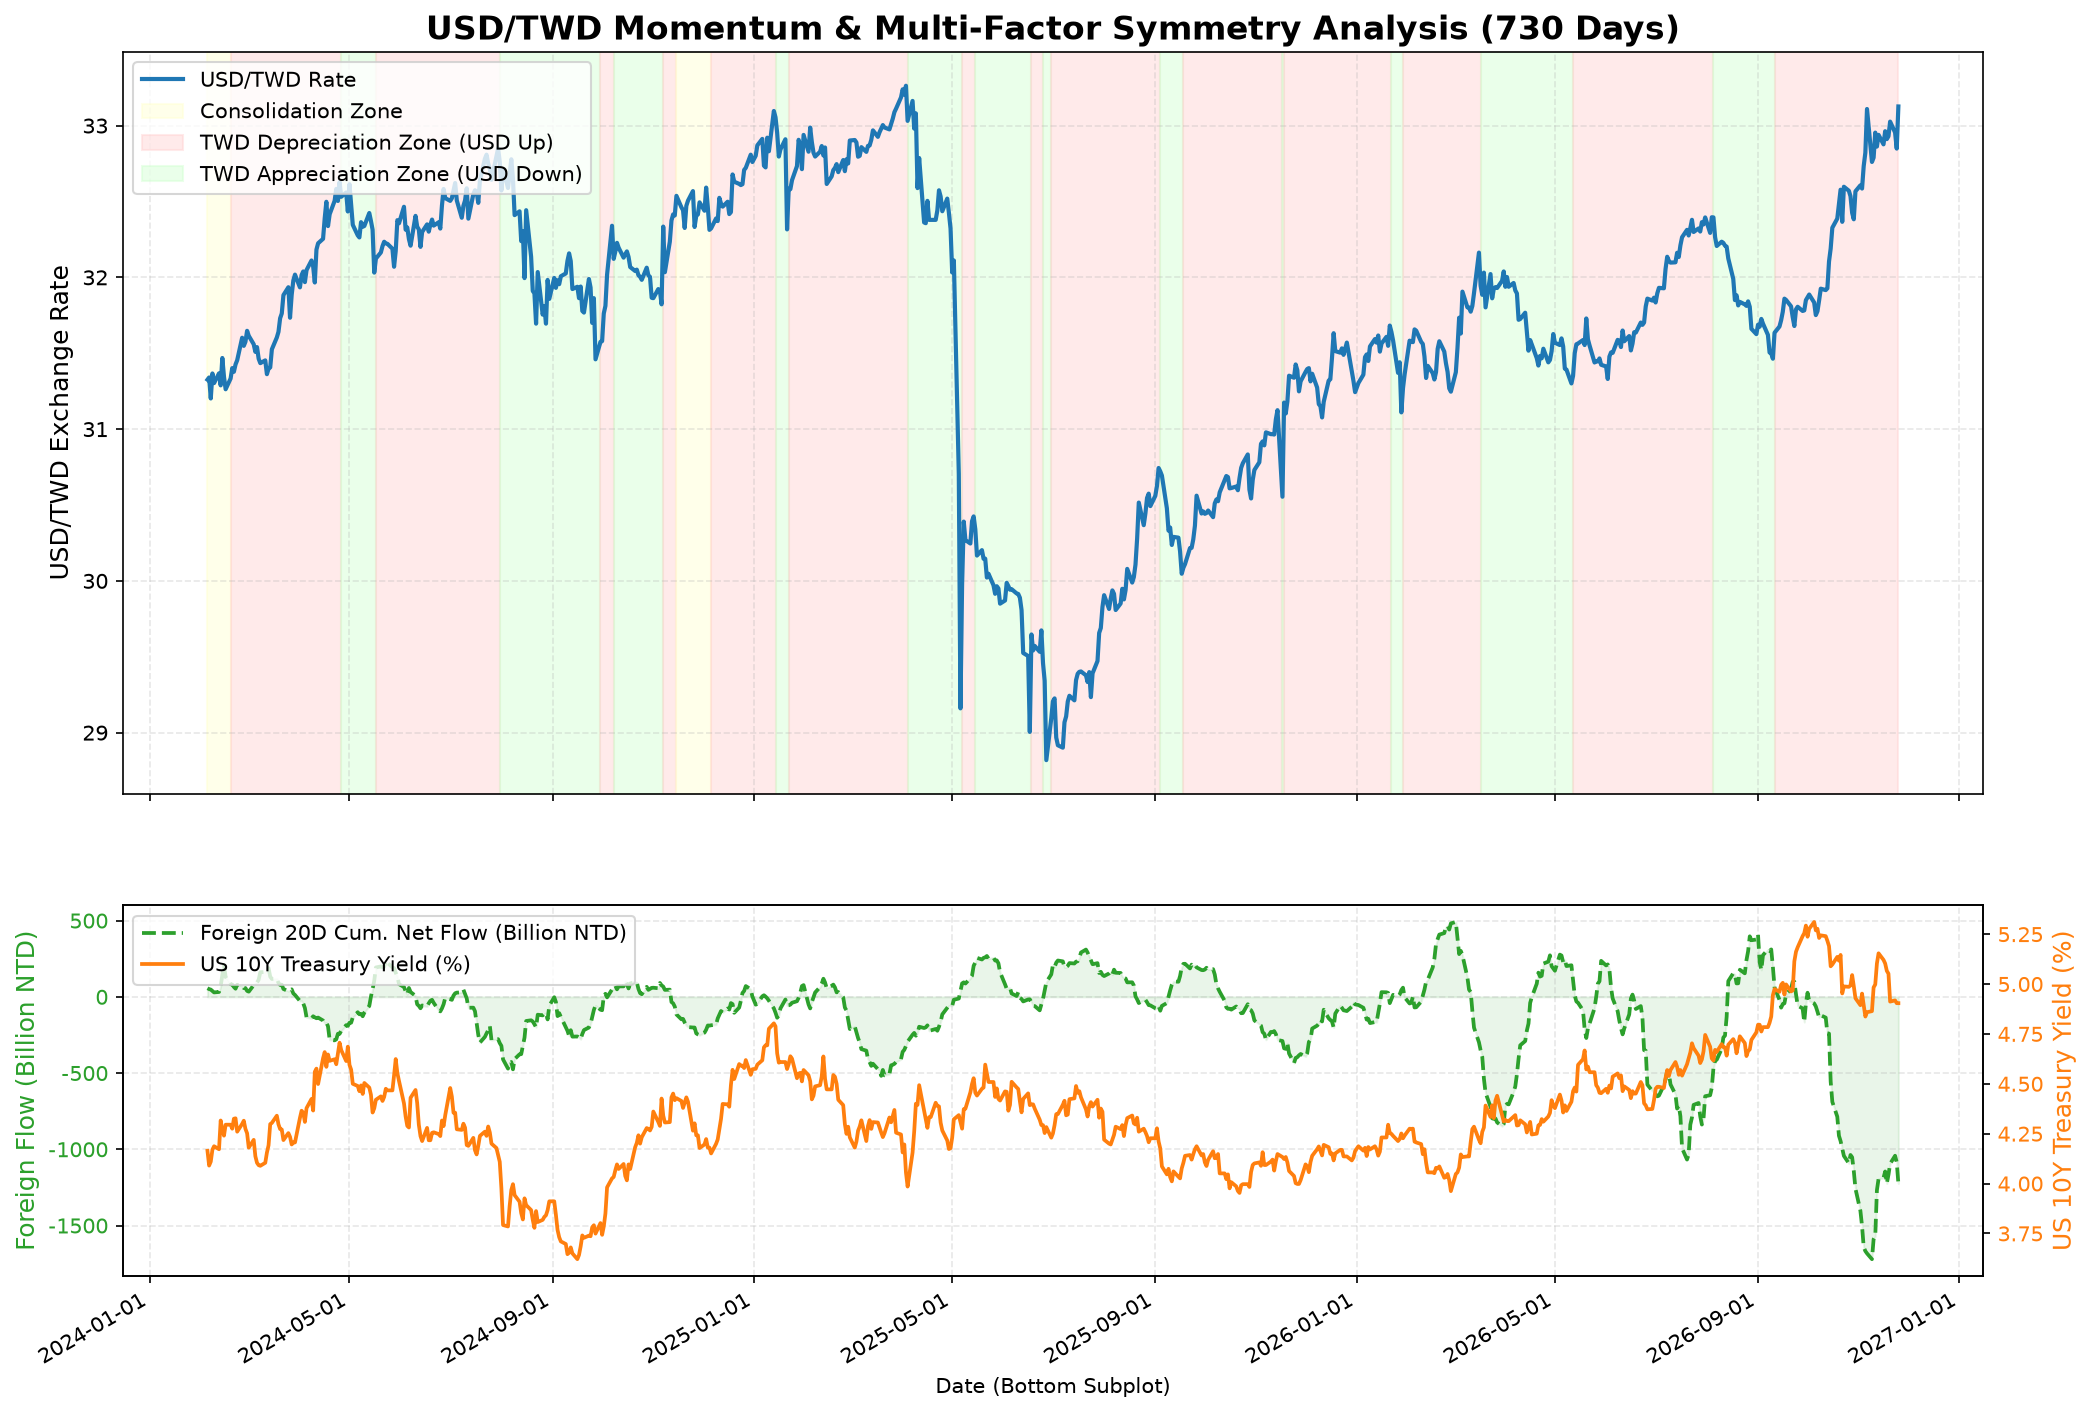
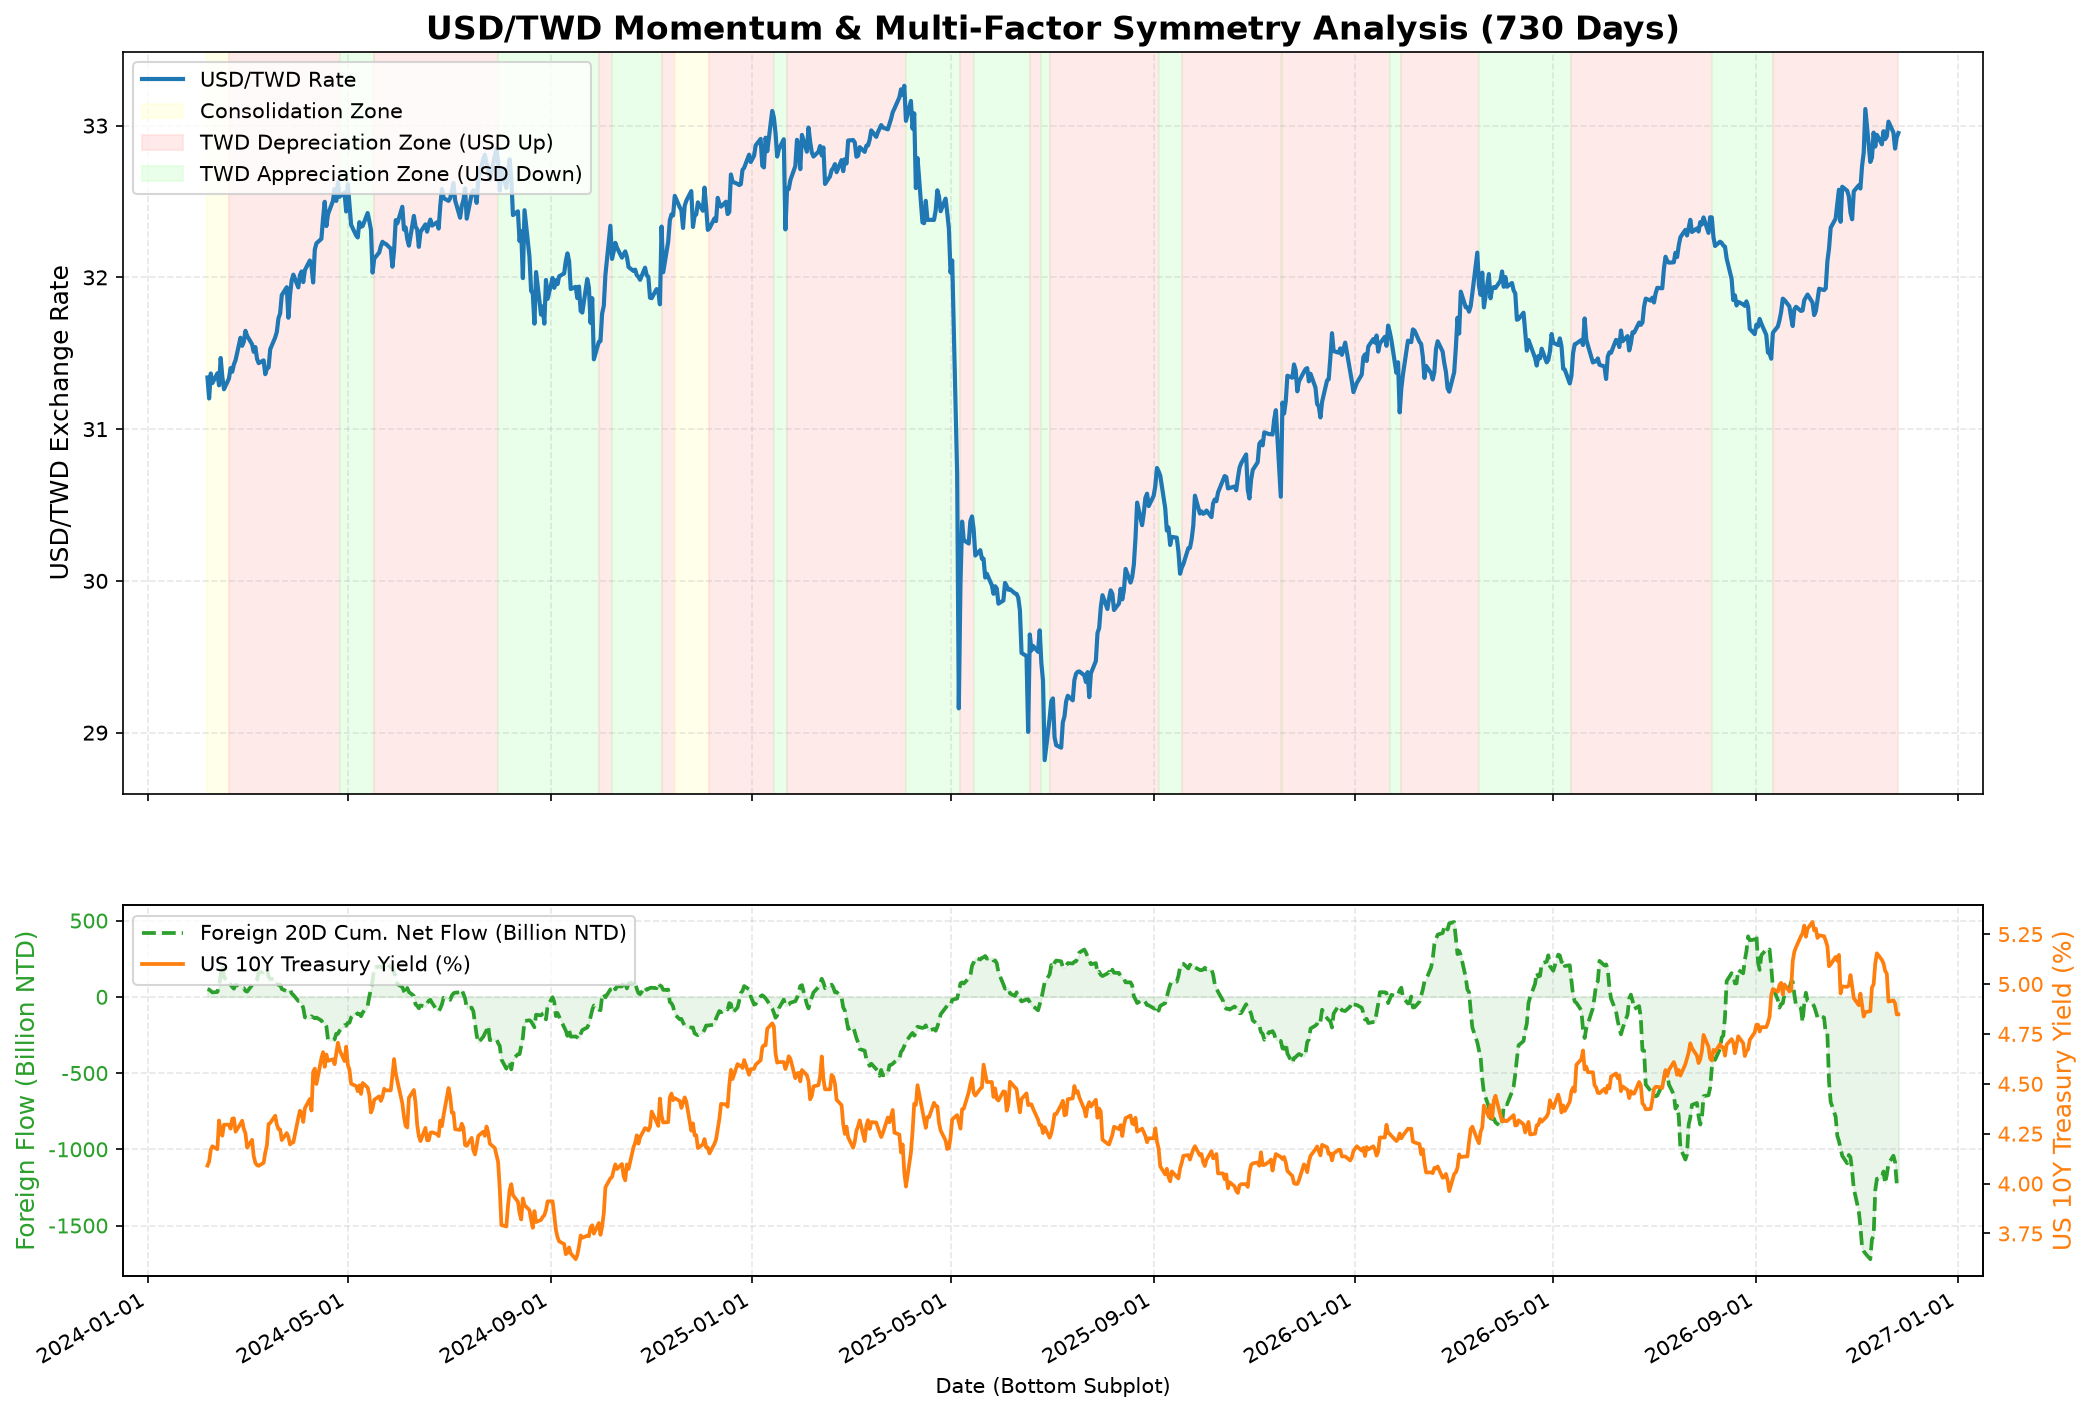
Auto-update USD/TWD momentum report (2026-11-26)

diff --git a/usdtwd.html b/usdtwd.html
@@ -57,7 +57,7 @@
                     <i class="fa-solid fa-money-bill-transfer text-amber-500"></i> USD/TWD 美元兌新台幣動能與多維度對稱分析報告
                 </h1>
                 <p class="text-sm text-gray-400 mt-1">
-                    標的：USD/TWD 匯率 ｜ 模型：雙速量價效率與波動對稱模型 ｜ 更新日期：2026-11-25
+                    標的：USD/TWD 匯率 ｜ 模型：雙速量價效率與波動對稱模型 ｜ 更新日期：2026-11-26
                 </p>
             </div>
             <div class="flex items-center gap-3">
@@ -116,17 +116,17 @@
 ════════════════════════════════════════════════════════════════════════════════
 
 【1. 跨市場與籌碼因子即時監控】
-  * 外資近 5 日累積淨買賣超: -236.82 十億元新台幣
-  * 外資近 20 日累積淨買賣超: -1224.11 十億元新台幣
-  * 美元指數 DXY: 104.03 (近5日變動: +0.13)
-  * 美元兌韓元 KRW: 1343.00 (近5日變動: +12.60)
-  * 美國 10 年期公債殖利率: 4.904% (近5日變動: -0.148%)
+  * 外資近 5 日累積淨買賣超: -261.68 十億元新台幣
+  * 外資近 20 日累積淨買賣超: -1204.47 十億元新台幣
+  * 美元指數 DXY: 103.78 (近5日變動: -0.03)
+  * 美元兌韓元 KRW: 1344.08 (近5日變動: +9.29)
+  * 美國 10 年期公債殖利率: 4.848% (近5日變動: -0.064%)
 --------------------------------------------------------------------------------
 【2. 歷史波段對稱統計 (台幣貶值波段 (美元兌台幣上漲))】
   * 歷史波段數: 36 次
   * 平均波動幅度: 2.99% (中位數: 2.39%)
-  * 平均持續天數: 36.0 天
-  * 平均波段外資流入: -249.69 十億元
+  * 平均持續天數: 36.1 天
+  * 平均波段外資流入: -251.05 十億元
 --------------------------------------------------------------------------------
 【2. 歷史波段對稱統計 (台幣升值波段 (美元兌台幣下跌))】
   * 歷史波段數: 29 次
@@ -137,17 +137,17 @@
 【3. 當前 USD/TWD 波段評估與等幅對稱投影】
   * 當前大波段型態: 上漲
   * 波段起始日期: 2026-09-11 (起始匯率: 31.635)
-  * 波段最高點 (Peak): 33.126
+  * 波段最高點 (Peak): 33.109
   * 波段最低點 (Trough): 31.635
-  * 當前最新匯率 (2026-11-25): 33.126
-  * 本波段累計變動: 4.71% (共 +1.491 元)
-  * 目前已持續交易日: 53 天
-  * 本波段外資累積淨流入: -2411.40 十億元
+  * 當前最新匯率 (2026-11-26): 32.951
+  * 本波段累計變動: 4.66% (共 +1.474 元)
+  * 目前已持續交易日: 54 天
+  * 本波段外資累積淨流入: -2460.58 十億元
 
   [短線動能預警 (0.6% 領先燈號)]
   * 短線波段狀態: 台幣短線轉弱 (匯率自低點反彈)
   * 短線轉折基準: 2026-11-09 (匯率基準價 32.760)
-  * 短線累計幅度: +1.12% (12 天)
+  * 短線累計幅度: +0.58% (13 天)
 
   &gt;&gt;&gt; 【台幣貶值波段對稱投影預估 (以波段最低點計算)】 &lt;&lt;&lt;
   * 投影基準點 (本波段最低谷): 31.635
